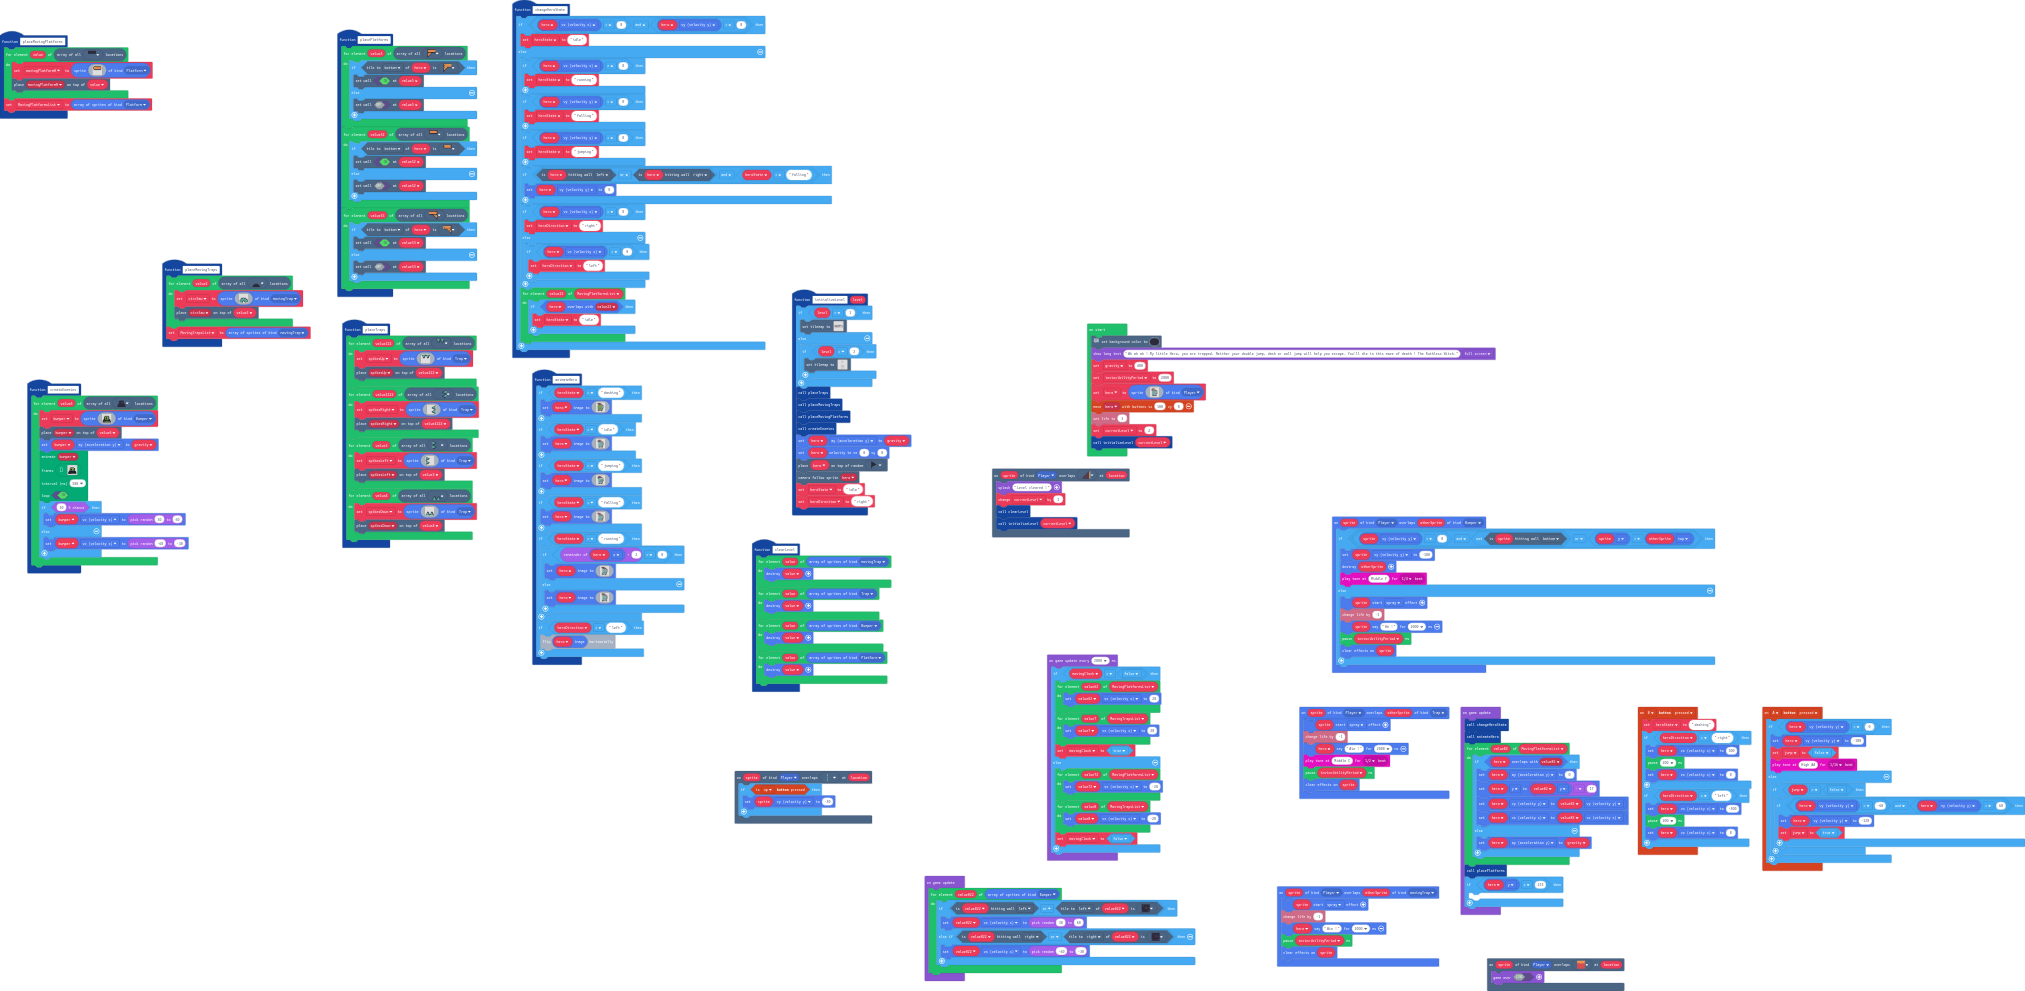
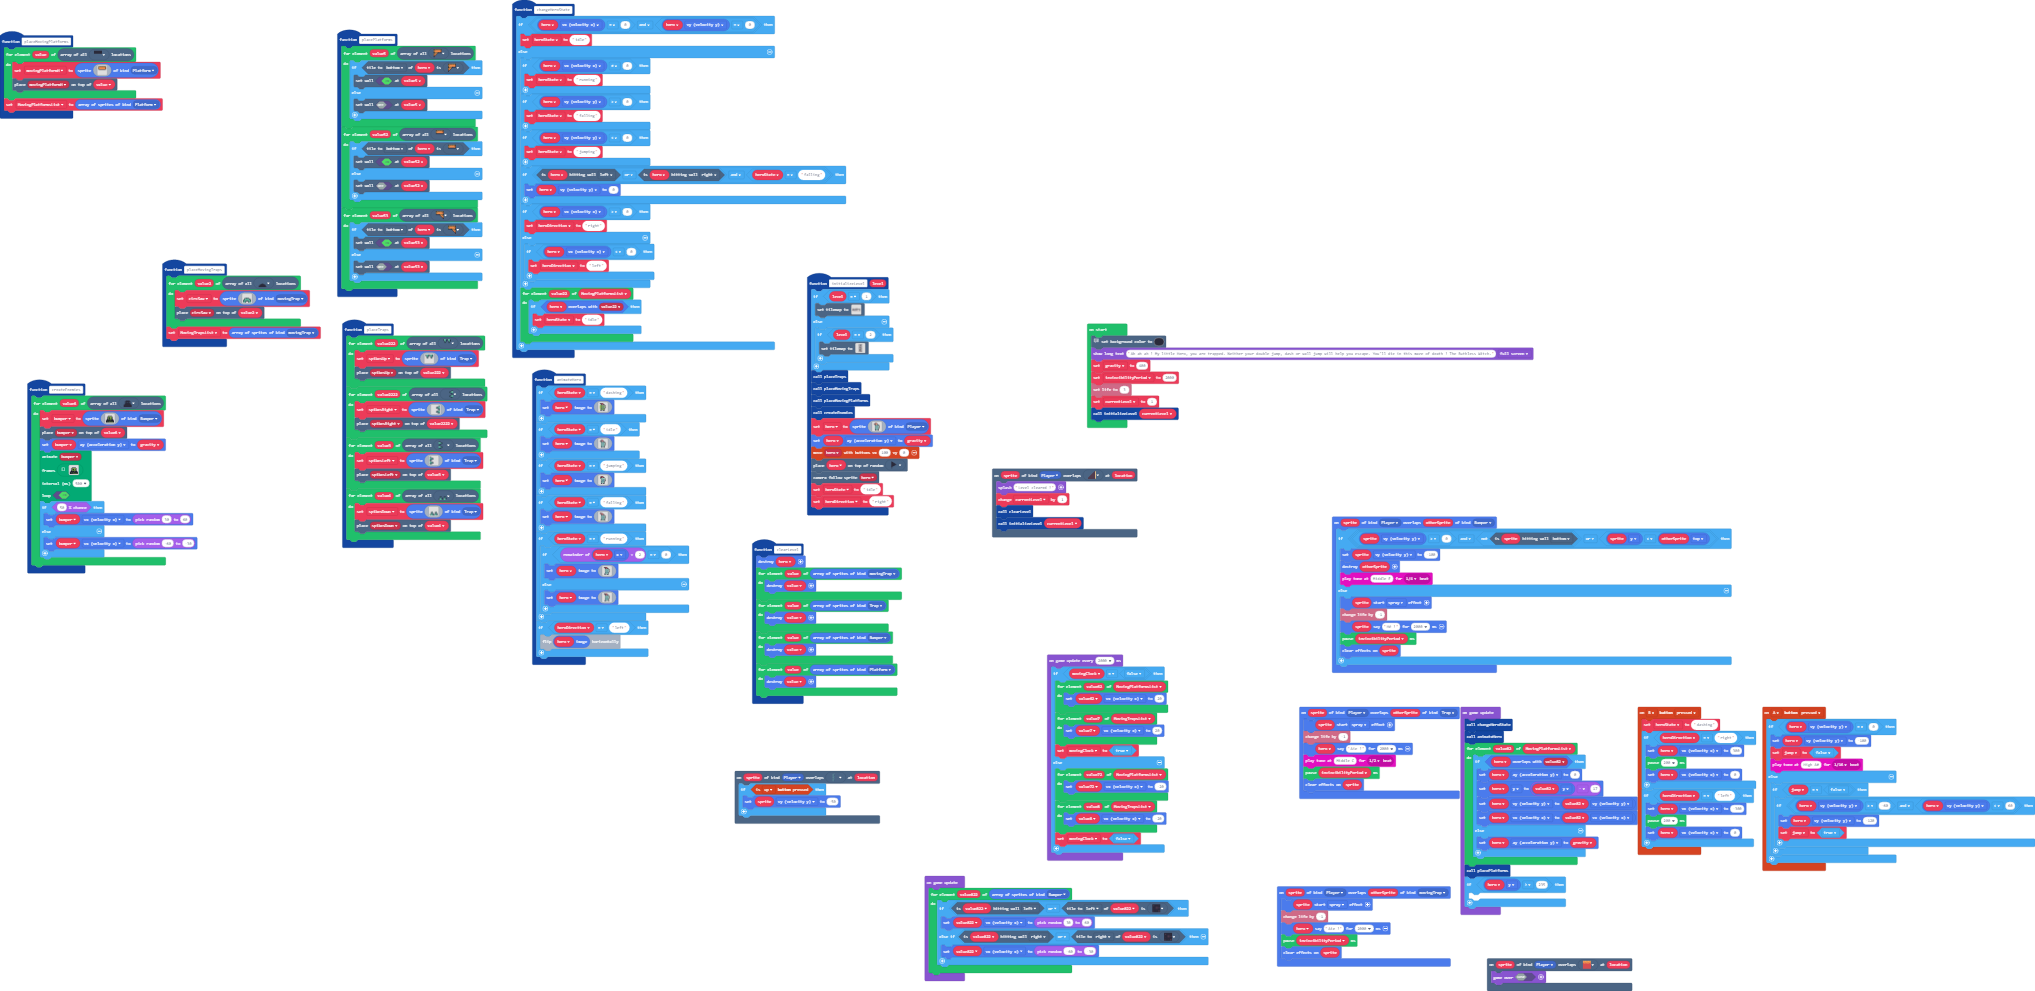
Update main.blocks, main.ts

diff --git a/main.ts b/main.ts
@@ -504,11 +504,11 @@ e c c 9 c c e c c 9 c c e c 9 c
     //% blockIdentity=images._tile
     export const tile26 = img`
 7 7 7 7 7 7 7 7 7 7 7 7 7 7 7 7 
-7 e e e c e e c e e e c e e e e 
-7 e e c c c c c c c c c c c c c 
-7 e 7 c c c c c c c c c c c c c 
-7 c c c c c c c c c c c c c c c 
-7 e c c c c c c c c c c c c c c 
+7 e e e c e e c e e e c e e e 7 
+7 e e c c c c c c c c c c c c 7 
+7 e 7 c c c c c c c c c c c c 7 
+7 c c c c c c c c c c c c c c 7 
+7 e c c c c c c c c c c c c c 7 
 7 7 7 7 7 7 7 7 7 7 7 7 7 7 7 7 
 . 7 e e e e e e 7 . . . . . . . 
 7 e c c c c c 7 . . . . . . . . 
@@ -523,11 +523,11 @@ e c c 9 c c e c c 9 c c e c 9 c
     //% blockIdentity=images._tile
     export const tile27 = img`
 7 7 7 7 7 7 7 7 7 7 7 7 7 7 7 7 
-e e e e c e e c e e e c e e e 7 
-e e c c c c c c c c c c c c c 7 
-e c 7 c c c c c c c c c c 7 c 7 
-e c c c c c c c c c c c c c c 7 
-e c c c c c c c c c c c c c c 7 
+7 e e e c e e c e e e c e e e 7 
+7 e e c c c c c c c c c c c c 7 
+7 e 7 c c c c c c c c c c 7 c 7 
+7 e c c c c c c c c c c c c c 7 
+7 e c c c c c c c c c c c c c 7 
 7 7 7 7 7 7 7 7 7 7 7 7 7 7 7 7 
 . . . . . . . 7 e e e e e e 7 . 
 . . . . . . . . 7 c c c c c e 7 
@@ -1168,6 +1168,7 @@ function placePlatforms () {
     }
 }
 function clearLevel () {
+    hero.destroy()
     for (let value of sprites.allOfKind(SpriteKind.movingTrap)) {
         value.destroy()
     }
@@ -1209,56 +1210,56 @@ function initializeLevel (level: number) {
     } else {
         if (level == 2) {
             tiles.setTilemap(tiles.createTilemap(
[2 lines of base64/hex data omitted]
             img`
-. . . . . . . . . . . . . . . . 
-. . . . . . . . . . . . . . . . 
-2 2 2 2 2 2 2 . . . . . . . . . 
-. . . . . . . . . . . . . . . . 
-. . . . . . . . . . . . . . . . 
-. . . . . 2 2 2 2 2 2 . . . . . 
-. . . . . . . . . . . . . . . . 
-. . . . . . . . . . . . . . . . 
-. . . . . . . . . . 2 2 2 2 2 2 
-. . . . . . . . . . . . . . . . 
-. . . . . . . . . . . . . . . . 
-. . . . . 2 2 2 2 2 2 . . . . . 
-. . . . . . . . . . . . . . . . 
-. . . . . . . . . . . . . . . . 
-2 2 2 2 2 2 2 . . . . . . . . . 
-. . . . . . . . . . . . . . . . 
-. . . . . . . . . . . . . . . . 
-. . . . . . . . . . . . . . . . 
-. . . . . . . . . . . . . . . . 
-. . . . . . . . . . . . . . . . 
-. . . . . . . . . . . . . . . . 
-. . . . . . . . . . . . . . . . 
-. . . . . . . . . . . . . . . . 
-. . . . . . . . . . . . . . . . 
-. . . . . . . . . . . . . . . . 
-. . . . . . . . . . . . . . . . 
-. . . . . . . . . . . . . . . 2 
-. . . . . . . . . . . . . . . 2 
-. . . . . . . . . . . . . . . 2 
-. . 2 2 2 2 2 2 2 2 2 2 2 2 2 2 
-. . . . . . . . . . . . . . . 2 
-. . . . . . . . . . . . . . . 2 
-. . . . . . . . . . . . . . . 2 
-2 2 2 2 2 2 2 2 2 2 2 . . . . 2 
-. . . . . . . . . . . . . . . 2 
-. . . . . . . . . . . . . . . 2 
-. . . . . . . . . . . . . . . 2 
-2 2 2 2 2 2 . . . 2 2 2 2 2 2 2 
-. . . . . . . . . . . . . . . . 
-. . . . . . . . . . . . . . . . 
-. . . . . . . . . . . . . . . . 
-. . . . . . . . . . . . . . . . 
-. . . . . . . . . . . . . . . . 
-. . . . . . . . . . . . . . . . 
-. . . . . . . . . . . . . . . . 
-. . . . . . . . . . . . . . . . 
-2 . . . . . . . . . . . . . . . 
-. . . . . . . . . . . . . . . . 
+2 2 2 2 2 2 2 2 2 2 2 2 2 2 2 2 2 2 
+2 . . . . . . . . . . . . . . . . 2 
+2 . . . . . . . . . . . . . . . . 2 
+2 . . . . . . . . . . 2 2 2 2 2 2 2 
+2 . . . . . . . . . . 2 2 2 2 2 2 2 
+2 . . . . . 2 2 2 2 2 2 . . . . . 2 
+2 . . . . . 2 2 2 2 2 2 . . . . . 2 
+2 . . . . . . . . . . . . 2 2 . . 2 
+2 . . . . . . . . . . . . 2 2 . . 2 
+2 2 2 2 2 2 2 2 2 2 2 . 2 2 2 . . 2 
+2 2 2 2 2 2 2 2 2 2 2 . 2 2 2 . . 2 
+2 . . . . . . . . 2 2 . 2 2 2 . . 2 
+2 . . . . . . . . . . . . . . . . 2 
+2 . . . . . . . . . . . . . . . . 2 
+2 2 . 2 2 2 2 2 2 2 2 2 2 2 2 2 2 2 
+2 . . 2 2 2 2 2 2 2 2 2 2 2 2 2 2 2 
+2 . . 2 . . . . . . . . . . . . . 2 
+2 . . 2 . . . . . . . . . . . . . 2 
+2 . 2 2 2 2 2 2 2 2 2 2 2 2 . . . 2 
+2 . . 2 2 2 2 2 2 2 2 2 2 2 . . . 2 
+2 . . 2 2 . . . . . . . 2 2 . . . 2 
+2 . . 2 2 . . . . . . . 2 2 . . . 2 
+2 2 . 2 2 . . . . . . . 2 2 . . . 2 
+2 . . 2 2 . . . . . . . 2 2 . . . 2 
+2 . . 2 2 . . . . . . . . . . . . 2 
+2 . . 2 2 . . . . . . . . . . . . 2 
+2 . 2 2 2 2 2 2 2 2 2 2 . . . . . 2 
+2 . 2 2 2 2 2 2 2 2 2 2 . . . . . 2 
+2 . 2 . . . . . . . 2 2 . 2 2 2 . 2 
+2 . 2 . . . . . . . 2 2 . 2 2 2 . 2 
+2 . . . 2 2 2 2 2 . 2 2 . . . . . 2 
+2 . . . 2 . . 2 2 . 2 2 . . . . . 2 
+2 2 2 2 2 . . 2 2 . 2 2 . . . . . 2 
+2 . . . . . . 2 2 . 2 2 . . . 2 2 2 
+2 . . . . . . 2 2 . 2 2 . . . 2 2 2 
+2 . . 2 2 . . 2 2 . 2 . . . . . . 2 
+2 2 . 2 2 . . 2 2 . 2 . . . . . . 2 
+2 2 . 2 2 . . 2 2 . 2 2 . . . . . 2 
+2 . . 2 2 . . 2 2 . . 2 2 2 . . . 2 
+2 . . 2 2 2 2 2 2 . . 2 2 . . . . 2 
+2 . . 2 2 2 2 2 2 . . 2 2 . . . . 2 
+2 . . . . . . . . . . . . . . . . 2 
+2 . . . . . . . . . . . . . . . . 2 
+2 2 2 . . 2 2 . . . . . . 2 2 2 2 2 
+. . . . . 2 2 . . . . . . 2 2 2 2 2 
+. . . . . 2 2 . . . 2 . . 2 2 2 2 2 
+2 2 . . . . 2 . . . 2 . . 2 2 2 2 2 
+2 . . . . 2 2 . . . 2 . . 2 2 2 2 2 
 `,
             [myTiles.tile0,myTiles.tile1,myTiles.tile2,myTiles.tile3,myTiles.tile4,myTiles.tile5,myTiles.tile6,myTiles.tile7,myTiles.tile8,myTiles.tile9,myTiles.tile10,myTiles.tile11,myTiles.tile12,myTiles.tile13,myTiles.tile14,myTiles.tile15,myTiles.tile16,myTiles.tile17,myTiles.tile18,myTiles.tile19,myTiles.tile20,myTiles.tile21,myTiles.tile22,myTiles.tile23,myTiles.tile24,myTiles.tile25,myTiles.tile26,myTiles.tile27,myTiles.tile28,myTiles.tile29,myTiles.tile30,myTiles.tile31,myTiles.tile32,myTiles.tile33,myTiles.tile34,myTiles.tile35],
             TileScale.Sixteen
@@ -1269,36 +1270,7 @@ function initializeLevel (level: number) {
     placeMovingTraps()
     placeMovingPlatforms()
     createEnemies()
-    hero.ay = gravity
-    hero.setVelocity(0, 0)
-    tiles.placeOnRandomTile(hero, myTiles.tile35)
-    scene.cameraFollowSprite(hero)
-    heroState = "idle"
-    heroDirection = "right"
-}
-let movingClock = false
-let spikesDown: Sprite = null
-let spikesLeft: Sprite = null
-let spikesRight: Sprite = null
-let spikesUp: Sprite = null
-let MovingTrapsList: Sprite[] = []
-let circSaw: Sprite = null
-let bumper: Sprite = null
-let jump = false
-let heroDirection = ""
-let heroState = ""
-let MovingPlatformsList: Sprite[] = []
-let movingPlatformH: Sprite = null
-let currentLevel = 0
-let hero: Sprite = null
-let invincibilityPeriod = 0
-let gravity = 0
-// image.setPalette(palettes.Equpix15)
-scene.setBackgroundColor(2)
-game.showLongText("Ah ah ah ! My little Hero, you are trapped. Neither your double jump, dash or wall jump will help you escape. You'll die in this maze of death ! The Ruthless Witch.", DialogLayout.Full)
-gravity = 400
-invincibilityPeriod = 2000
-hero = sprites.create(img`
+    hero = sprites.create(img`
 . . . . . . . . . . . . . . . . 
 . . . 7 7 7 7 7 . . . . . . . . 
 . . 7 9 c c c c 7 . . . . . . . 
@@ -1320,9 +1292,37 @@ hero = sprites.create(img`
 . . . 7 5 5 7 7 7 7 5 5 7 . . . 
 . . . 7 7 7 . . . . 7 7 7 . . . 
 `, SpriteKind.Player)
-controller.moveSprite(hero, 100, 0)
+    hero.ay = gravity
+    controller.moveSprite(hero, 100, 0)
+    tiles.placeOnRandomTile(hero, myTiles.tile35)
+    scene.cameraFollowSprite(hero)
+    heroState = "idle"
+    heroDirection = "right"
+}
+let movingClock = false
+let spikesDown: Sprite = null
+let spikesLeft: Sprite = null
+let spikesRight: Sprite = null
+let spikesUp: Sprite = null
+let MovingTrapsList: Sprite[] = []
+let circSaw: Sprite = null
+let bumper: Sprite = null
+let jump = false
+let heroDirection = ""
+let heroState = ""
+let MovingPlatformsList: Sprite[] = []
+let movingPlatformH: Sprite = null
+let hero: Sprite = null
+let currentLevel = 0
+let invincibilityPeriod = 0
+let gravity = 0
+// image.setPalette(palettes.Equpix15)
+scene.setBackgroundColor(2)
+game.showLongText("Ah ah ah ! My little Hero, you are trapped. Neither your double jump, dash or wall jump will help you escape. You'll die in this maze of death ! The Ruthless Witch.", DialogLayout.Full)
+gravity = 400
+invincibilityPeriod = 2000
 info.setLife(3)
-currentLevel = 2
+currentLevel = 1
 initializeLevel(currentLevel)
 game.onUpdateInterval(2000, function () {
     if (movingClock == false) {
